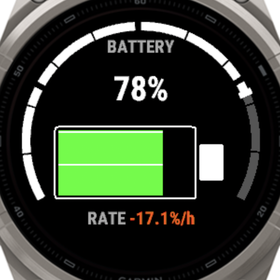
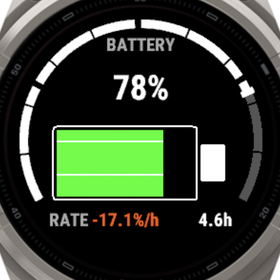
feat: enhance README and battery gauge documentation, add evidence percent calculation, and improve solar power view display

diff --git a/tools/patch_record.py b/tools/patch_record.py
@@ -16,6 +16,7 @@ s = s[:start] + '''    function compute(info as Activity.Info) as Void {
         var now = Time.now().value();
         _sunrise = now - 18000;
         _sunset = now + 7400;
+        refreshSunTexts();
         _latRad = 0.5344677444d;
         _lonRad = -1.7081166813d;
         _hasFix = true;
@@ -50,6 +51,12 @@ s = s[:start] + '''    function compute(info as Activity.Info) as Void {
 # auto-cycle every 4s so a short recording covers all five pages
 s = s.replace('        _pageMode = numberProperty("pageMode", 0, 0, PAGE_COUNT);', '        _pageMode = 0;')
 s = s.replace('        _cycleSeconds = numberProperty("cycleSeconds", 8, 3, 60);', '        _cycleSeconds = 4;')
-s = s.replace("        _palette.apply(getBackgroundColor());", "        _palette.apply(Graphics.COLOR_BLACK);")
+# Force the dark theme through the real setting, as patch_preview.py does. The
+# old palette line this patched was renamed by a refactor, so the override
+# silently stopped applying and the recording came out light with the face
+# crop missing. Assert, so a patch that matches nothing fails loudly.
+before = s
+s = s.replace('        _theme = numberProperty("theme", 0, 0, 2);', '        _theme = 1;')
+assert s != before, "theme override did not apply - has loadSettings changed?"
 p.write_text(s)
 print("patched for recording")

diff --git a/tools/patch_preview.py b/tools/patch_preview.py
@@ -29,6 +29,7 @@ s = s[:old_start] + '''    function compute(info as Activity.Info) as Void {
         if (ev != null) {
             _sunrise = ev[0];
             _sunset = ev[1];
+            refreshSunTexts();
         }
         _uvIndex = 7.0;
         _cloudCover = 35;

diff --git a/README.md b/README.md
@@ -42,12 +42,14 @@ Cycle through them automatically, pin your favorite, or map the lap button to fl
 | Page | What it tells you |
 | --- | --- |
 | **Solar Now** | Live intensity, a scrolling bar chart of the last several minutes, and this activity's average and peak |
-| **Full Sun Time** | Your sunlight added up as time at full intensity (an hour at 50% counts as 30 minutes), plus the runtime that sun bought once there is enough evidence to measure it |
+| **Full Sun Time** | Your sunlight added up as time at full intensity (an hour at 50% counts as 30 minutes), the share of the activity spent in sun, and the runtime that sun bought once there is enough evidence to measure it |
 | **Battery** | An animated battery icon (not a chart) that fills and flows in the direction your level is actually moving, beside the drain or gain rate as soon as there is evidence for one |
-| **Sun Window** | Minutes of full sun still ahead before sunset, or a live daylight arc showing where you are in the day |
+| **Sun Window** | TO SUNSET: the daylight left, over a live daylight arc showing where you are in the day with the sunset's clock time at its foot, and SUN LEFT: the full sun still to come before sunset if the panel keeps catching it at today's rate |
 | **Catching** | The signature metric: what share of the sunlight your position and the sun's height *should* be delivering are you actually catching. Low despite a high sun means shade, canopy, or a sleeve, not a broken sensor |
-| **Sun Bonus** | The hour's drain, split into what the sun paid for and what your battery paid for, fitted by regression against your own measured data. It is the slowest number to earn (see below) and is marked with a `~` whenever it relies on earlier activities |
+| **Sun Bonus** | The hour's drain, split into what the sun paid for and what your battery paid for, fitted by regression against your own measured data, beside UNLIT, what the hour would have cost with no light on the panel. It is the slowest number to earn (see below) and is marked with a `~` whenever it relies on earlier activities. While it measures, the page says how far along the evidence is, in percent |
 | **Compass** | Where the sun actually is right now, plus its whole path across today's sky, dotted ahead of your current position like a weather radar loop |
+
+One rule for every time on the field: a colon is a clock time (the 7:41 at the foot of the daylight arc), and h and m are a duration (TO SUNSET 5h41, FULL SUN 23m).
 
 An animated preview, captured straight from the simulator:
 
@@ -172,7 +174,7 @@ A few things worth knowing if you are reading the test file:
 Being upfront about what this project cannot do, because a features list with no edges is not a features list you should trust:
 
 - **No real device battery-life (mAh) measurement.** Everything here is measured in percentage points per hour off the OS's own reporting, which is the only battery signal a Connect IQ data field is given. It cannot see the actual chemistry.
-- **Sun Bonus takes real time to earn.** A battery reported in whole percent only holds so much evidence per hour. With plainly changing light, Sun Bonus can appear after about 2.5 to 3 hours in one activity (the early rule); with subtler contrast it needs about 6 to 6.5 hours, or roughly six 2-hour activities with changing light pooled together, and an activity too short to see three battery steps adds nothing to it. Until then it reads "measuring", which is the honest answer rather than a bug. See [When each number appears](#when-each-number-appears).
+- **Sun Bonus takes real time to earn.** A battery reported in whole percent only holds so much evidence per hour. With plainly changing light, Sun Bonus can appear after about 2.5 to 3 hours in one activity (the early rule); with subtler contrast it needs about 6 to 6.5 hours, or roughly six 2-hour activities with changing light pooled together, and an activity too short to see three battery steps adds nothing to it. Until then it reads MEASURING with a percentage: how far the evidence is toward the first figure, counting both the battery steps pooled so far and how much the light has varied within them, whichever is further behind. Even light through many steps stays at zero, because it teaches nothing about the sun. That is the honest answer rather than a bug. See [When each number appears](#when-each-number-appears).
 - **The fēnix 6 Pro builds have only run in the Connect IQ simulator so far.** There they pass every test on all three screen sizes, render every page, hold steady memory with over 40% to spare, and stay well inside the watchdog limit that stops code running too long, but nobody has worn one with this field yet. The fēnix 6 also has a slower processor than the watches this was built on. If you run it on one, an issue saying how it went is very welcome.
 - **Instinct, the non-Pro fēnix 6 Solar and 6S Solar, and rectangular color devices (like the solar Edge bike computers) are not supported.** The solar Instinct models and the non-Pro fēnix 6 Solar and 6S Solar give a data field 32 KB of memory, while this one uses about 49 KB running on a fēnix 9 and about 60 KB on a fēnix 6 Pro, where the code counts against the same limit. The Instinct line also has a 1-bit display and a non-round screen this project's rendering was never built for. It is a real redesign, not a checkbox.
 

diff --git a/docs/experiments/battery-gauge.md b/docs/experiments/battery-gauge.md
@@ -54,11 +54,5 @@ Record one ordinary activity of 20 minutes or more, then look at the two fields 
 
 - **Either value moves between whole percent steps:** the field can read the battery several times finer. The interval fit that already exists would then have several gaps per walk, and Sun Bonus could be measured from a handful of short activities.
 - **Both sit still between steps:** the whole percent gauge is all there is. Measuring what the sun is worth then needs a watcher that sees the whole day, which a data field cannot be.
-
-## Not for release
-
-These two fields are diagnostics. They should not ship in a store build as they are.
-
 The battery page's RATE chip shows the gauge's own reading of the activity's drain from its tenth active minute, marked ~, until two percent steps give a counted one. Connect's labels were made plain at the same time (Battery Level, Battery Days Left, Battery Drain Rate, Sun Caught (of possible), Sun Saving (percent) and Sun Saving (battery life)) and the charts ordered sun first, battery second.
 
-Open question: whether Connect IQ caps an app's developer fields at sixteen. This branch declares nineteen. If the FIT from the first walk lacks ids 16 to 18, that is the cap, and three fields have to go or fold into others.
